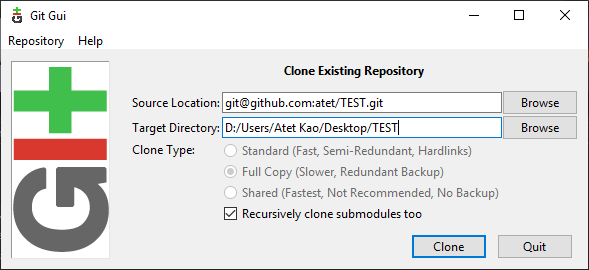
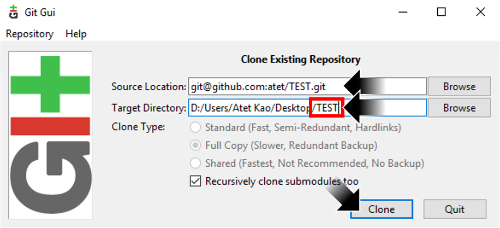
Updates to Introduction to Git.

diff --git a/README.md b/README.md
@@ -4,10 +4,11 @@
 
 # Introduction to Git
 
-* _Git and run_ in 15 minutes.
-* This quick introduction to [Git](https://git-scm.com/book/en/v1/Getting-Started-Git-Basics) is meant to cover only the absolute necessary material to get you up and running in a minimal amount of time.
-* You are here because you want to use a [Version Control System (VCS)](https://git-scm.com/book/en/v2/Getting-Started-About-Version-Control) to help manage your solo and/or team-based projects.
-* We will be using [Git Graphical User Interface (GUI)](https://git-scm.com/download/) to connect with the [GitHub](https://github.com) web-based platform to perform basic operations; advanced material is not covered here.
+**_Git and run_ in 15 minutes**
+
+* This introduction to Git only covers what's absolute necessary to get you up and running
+* You are here because you want to use a [version control system (VCS)](https://git-scm.com/book/en/v2/Getting-Started-About-Version-Control) to help manage your solo and/or team-based projects
+* We will use Git graphical user interface (GUI) and GitHub to perform basic operations; advanced material is not covered here
 
 --------------------------------------------------------------------------------------------------
 
@@ -24,10 +25,11 @@
 * [6. Committing Changes](#6-committing-changes)
 * [7. Pushing Changes](#7-pushing-changes)
 * [8. Typical Workflow](#8-typical-workflow)
+* [9. Epilogue](#9-epilogue)
 
 ### Supplemental
 
-* [Epilogue](#Epilogue)
+* [Troubleshooting](#troubleshooting)
 * [Additional Tutorials](#additional-tutorials)
 * [GitHub vs. Other Git Platforms](#gitHub-vs-other-git-platforms)
 
@@ -35,11 +37,11 @@
 
 ## 0. Requirements
 
-* This tutorial was developed on Microsoft Windows 10.
+* This tutorial was developed on Microsoft Windows 10
 * You are using two platforms hand-in-hand:
-   * **Git GUI** downloaded on your computer (also available for MacOS and Linux).
-   * **GitHub Website** accessed through most web browsers.
-* You will have to go back and forth between the Git GUI program and the GitHub Website a few times during initial setup.
+   * **Git graphical user interface** (GUI) downloaded on your computer
+   * **GitHub** website accessed through web browser
+* You can also perform this tutorial on MacOS or Linux
 
 [Back to Top](#table-of-contents)
 
@@ -47,24 +49,24 @@
 
 ## 1. Installation
 
-### Git GUI
+### 1.1. Git GUI
 
-* We will use Git GUI to interface with GitHub's Website.
-* Download the "64-bit Git for Windows Portable" version: [https://github.com/git-for-windows/git/releases/download/v2.23.0.windows.1/PortableGit-2.23.0-64-bit.7z.exe](https://github.com/git-for-windows/git/releases/download/v2.23.0.windows.1/PortableGit-2.23.0-64-bit.7z.exe)
+* We will use Git GUI to interface with GitHub's Website
+* Download the "64-bit Git for Windows Portable" version here: [https://github.com/git-for-windows/git/releases/download/v2.23.0.windows.1/PortableGit-2.23.0-64-bit.7z.exe](https://github.com/git-for-windows/git/releases/download/v2.23.0.windows.1/PortableGit-2.23.0-64-bit.7z.exe)
    * Note: This link may break as new versions are released, if so go to: [https://git-scm.com/download/](https://git-scm.com/download/)
 
 [![.img/step01a.png](.img/step01a.png)](#nolink)
 
-* Run the downloaded file and have it extract to your desktop.
+* Run the downloaded file and have it extract to your desktop
 
 [![.img/step01b.png](.img/step01b.png)](#nolink)
 
-* Open Windows File Explorer and navigate to where you extracted PortableGit, navigate to `..\PortableGit\cmd\git-gui.exe` and run it.
-* Move on to the GitHub website, you will come back to this later.
+* Open Windows File Explorer and navigate to where you extracted PortableGit, navigate to "`..\PortableGit\cmd\git-gui.exe`" and run it
+* Keep this program up while you move on to the GitHub website
 
 [![.img/step01c.png](.img/step01c.png)](#nolink)
 
-### GitHub Website
+### 1.2. GitHub Website
 
 * You must sign up for a free account with GitHub at [www.github.com](www.github.com) and sign in.
 
@@ -79,9 +81,9 @@
 
 ## 2. New Repository
 
-### Create a New Repository on GitHub
+### 2.1. Create a New Repository on GitHub
 
-* We will create a new **repository** and **initialize** it to begin using the _repos_ (short for repository).
+* We will create a new **repository** and **initialize** it to begin using the _repos_ (short for repository)
 * After you log in, click on the green "New" button:
 
 [![.img/step02a.png](.img/step02a.png)](#nolink)
@@ -89,6 +91,8 @@
 * Give your repos a name (e.g. "TEST"), click on "Initialize this repository with a README" (this is important), and then click the green "Create repository" button.
 
 [![.img/step02b.png](.img/step02b.png)](#nolink)
+
+### 2.2. Copy Repository Address
 
 * After your new repos is created, click on the green "Clone or download" button on the top right and **copy the information you see here under "Clone with SSH"**, e.g. `git@github.com:atet/TEST.git`
 
@@ -100,23 +104,23 @@
 
 ## 3. Clone Repository
 
-* We just created the repository on GitHub's website, let's **clone** that repository so it also exists on your local computer.
+* We just created the repository on GitHub's website, let's **clone** that repository so it also exists on your local computer
 * Go back to the Git GUI program and select "Clone Existing Repository"
 
 [![.img/step03a.png](.img/step03a.png)](#nolink)
 
 * Paste the information from GitHub to "Source Location", e.g. `git@github.com:atet/TEST.git`
-* Choose a "Target Directory" for where the files will go locally, e.g. filepath to your desktop, then **manually add the name of the new folder to be created but does not yet exist**, e.g. "/TEST".
-   * Git GUI will not let you use a directory that already exists, a new directory must be created here.
+* Choose a "Target Directory" for where the files will go locally, e.g. filepath to your desktop, then **manually add the name of the new folder to be created but does not yet exist**, e.g. "`/TEST`"
+   * Git GUI will not let you use a directory that already exists, a new directory must be created here
 
 [![.img/step03b.png](.img/step03b.png)](#nolink)
 
-* Once you click "Clone" button, Git GUI will download the repos you just made on GitHub to your local Target Directory.
+* Once you click "Clone" button, Git GUI will download the repos you just made on GitHub to your local target directory
 
 [![.img/step03c.png](.img/step03c.png)](#nolink)
 
-* Now a copy of your repos from GitHub exists locally on your computer.
-* Below is what your working environment on Git GUI will look like.
+* Once the repos is cloned, a copy of your GitHub repos exists locally on your computer
+* Below is what your working environment on Git GUI will look like
 
 [![.img/step03d.png](.img/step03d.png)](#nolink)
 
@@ -126,35 +130,34 @@
 
 ## 4. Setup Connection
 
-* After cloning your repository, you must set up your Git GUI and GitHub website account to securely communicate with each other.
+**After cloning your repository, you must set up your Git GUI and GitHub website account to securely communicate with each other**
 
-### Setup GitHub Account Credentials in Git GUI
+### 4.1. Setup GitHub Account Credentials in Git GUI
 
-* Go to Edit → Options...
-* On the left-hand side, enter your GitHub website Username and Email Address associated with your account.
-* Click "Save".
+* Go to `Edit` → `Options...`
+* On the left-hand side, enter your **GitHub website username and email address** associated with your account
+* Click `Save`
 
 [![.img/step04a.png](.img/step04a.png)](#nolink)
 
-### Generate Git GUI SSH Key
+### 4.2. Generate Git GUI SSH Key
 
-* Go to Help → Show SSH Key.
-* Click on "Generate Key" then "Copy To Clipboard".
+* Go to `Help` → `Show SSH Key`
+* Click on `Generate Key` then `Copy To Clipboard`
    * NOTE: Your key will be a difference sequence of characters than below
 
 [![.img/step04b.png](.img/step04b.png)](#nolink)
 
-### Register Git GUI SSH Key with GitHub Account:
+### 4.3. Register Git GUI SSH Key with GitHub Account
 
-* Click on the top-right profile picture and select Settings.
-* Click on "SSH and GPG keys" on left-hand side.
-* Click on green "New SSH key" button on top-right.
-* Give this new key a Title and paste your Git GUI key into the Key area.
-* Click on "Add SSH key".
+* Click on the top-right profile picture and select `Settings`
+* Click on `SSH and GPG keys` on left-hand side
+* Click on green `New SSH key` button on top-right
+* Give this new key a `Title`
+* Paste your public Git GUI key into the text box
+* Click on `Add SSH key`
 
 [![.img/step04c.png](.img/step04c.png)](#nolink)
-
-**After setting up your credentials between your Git GUI and GitHub account, you should be able to complete a typical Git workflow within the next 5 minutes.**
 
 [Back to Top](#table-of-contents)
 
@@ -162,19 +165,21 @@
 
 ## 5. `Add`ing changes
 
+**`Add`ing will list out all the changes (new/deleted/modified files) that were made to the local repository**
+
 * Here, we will just make a simple change to the `README.md` file:
    * Navigate to where you cloned the `TEST` repos
    * Right-click and open `README.md` file in Notepad
-   * Type out "HELLO WORLD!" at the bottom and save
+   * Type out "`HELLO WORLD!`" at the bottom and save
 
 [![.img/step05a.png](.img/step05a.png)](#nolink)
 
 * `Add` these changes to your record of changes:
-   * In the Git GUI, click on "Rescan" and our addition of "HELLO WORLD!" in the `README.md` file will be shown in the top-right window pane
+   * In the Git GUI, click on `Rescan` and our addition of "`HELLO WORLD!`" in the `README.md` file will be shown in the top-right window pane
 
 [![.img/step05b.png](.img/step05b.png)](#nolink)
 
-* Click on "Stage Changed" and it will be added to the list of changes on the bottom-left that will be sent to the master repository on GitHub when you `push` it later.
+* Click on `Stage Changed` and the changes you have made will be `add`ed to the list on the bottom-left
 
 [![.img/step05c.png](.img/step05c.png)](#nolink)
 
@@ -184,10 +189,11 @@
 
 ## 6. `Commit`ting Changes
 
-* By **commit**ting changes, you are telling the Git system that these new, deleted, and/or modified files are ready to be incorporated in the main repository.
-   * Add a message relating to the changes you just made, e.g. `"Added "HELLO WORLD!" to README.md."`
-   * Click on "Commit"
-   * _You will not see any changes on GitHub at this point yet_
+**`Commit`ting will organize and document the various changes made as a single group**
+
+* Add a message relating to the changes you just made, e.g. `"Added "HELLO WORLD!" to README.md."`
+* Click on `Commit`
+* _You will not see any changes on GitHub at this point yet_
 
 [![.img/step06a.png](.img/step06a.png)](#nolink)
 
@@ -197,18 +203,20 @@
 
 ## 7. `Push`ing Changes
 
-* By **push**ing all your commits, everything gets incorporated to the master repository on GitHub:
-   * Click on "Push"
-   * Below is the popup window that comes up, click on "Push" here also
+**`Push`ing will send all commits to be incorporated to the master repository on GitHub**
+
+* Click on `Push` in lower-right window pane
+* In the popup window that comes up, click on `Push` again
 
 [![.img/step07a.png](.img/step07a.png)](#nolink)
 
 * Another popup window will display the status of your `push` of local changes to the master on GitHub.
    * If you setup your connection correctly on Step 4, there will not be any errors here
+   * Click on `Close`
 
 [![.img/step07b.png](.img/step07b.png)](#nolink)
 
-* _You will now be able to see all your commits on GitHub now._
+* You will now see all your `commit`s on GitHub
 
 [![.img/step07c.png](.img/step07c.png)](#nolink)
 
@@ -218,18 +226,19 @@
 
 ## 8. Typical Workflow
 
-* You can think of each repos as all the content that comprises a single project. You can add, change, and/or delete files in this project and these changes will be tracked.
+* You can think of each repos as all the content that comprises a single project
+* All file additions, modifications, and/or deletions in this project will be tracked
 * Identify breakpoints in a project and organize your efforts (and commits) around them:
    * "_Initial commit of project framework including X, Y, and Z._"
    * "_Implemented backend code to allow users to sort GUI results table._"
    * "_Fixed login bug #2 that caused QA's 'Unknown User' error._"
-* Once you start getting used to the version control workflow, you'll notice it's mostly just `add` → `commit` → `push`.
+* Once you start getting used to the version control workflow, you'll notice it's mostly just `add` → `commit` → `push`
 
 [Back to Top](#table-of-contents)
 
 --------------------------------------------------------------------------------------------------
 
-## Epilogue
+## 9. Epilogue
 
 * Anyone can incorporate Git into their development workflow and immediately gain benefits:
    * **Redundancy and Backup**: Copies of your files will exist in multiple locations (on the GitHub platform, your computer, collaborators, etc.)
@@ -237,6 +246,18 @@
 * This was a quick introduction, but Git can be more powerful (and complex):
    * **Branching**: Collaborators can work on their own branch without affecting anyone else's and submit changes for review
    * **Command Line Access**: Quickly `add` → `commit` → `push` through a terminal instead of website drag-dropping or GUI button-pushing
+
+[Back to Top](#table-of-contents)
+
+--------------------------------------------------------------------------------------------------
+
+## Troubleshooting
+
+Issue | Solution
+--- | ---
+GitHub won't let me push a large file | GitHub will not allow a single file to be larger than 100 MB unless you enable [LFS](https://git-lfs.github.com/)
+I erased a large file but GitHub still thinks it's in my repos | Even if you remove the file, once commited, it exists in your Git history. Follow these instructions to `reset` the `HEAD`: https://stackoverflow.com/a/54846502<br><br>`$ git status`<br>`$ git reset HEAD~<HOWEVER MANY COMMITS YOU ARE AHEAD>`<br>`$ git add . && git commit -m "" && git push -u origin master`
+
 
 [Back to Top](#table-of-contents)
 
@@ -257,9 +278,9 @@ Git Commands Cheat Sheet | [https://github.github.com/training-kit/downloads/git
 ## GitHub vs. Other Git Platforms
 
 * Git and GitHub are two different systems that work together:
-   * Think of GitHub as a service like Dropbox or OneDrive, both providing cloud storage that can be accessed from the Windows operating system
-   * Think of Git as that common operating system that can access different service providers
-* GitHub is a popular service provider that will host your repository online, but there are many others that can be accessed with the same Git GUI or Git through command line and use the same workflow:
+   * GitHub provides the cloud hosting for your repos
+   * Git is the language that can communicate with the remote repos
+* GitHub is a popular service provider, but there are many others that can be accessed with the same Git workflow:
 
 Company | Service | Website
 --- | --- | ---
